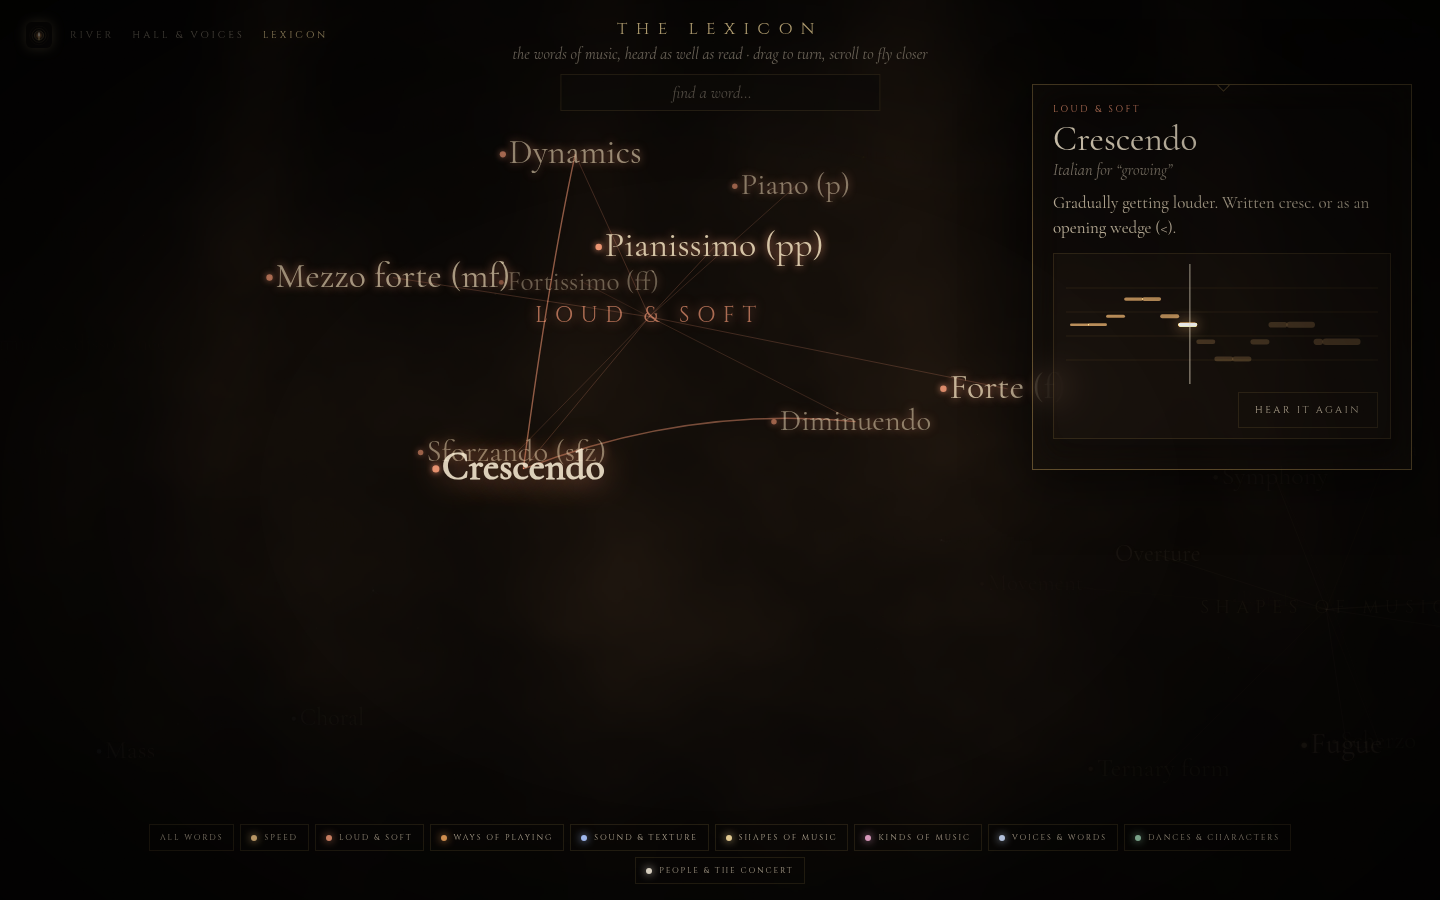
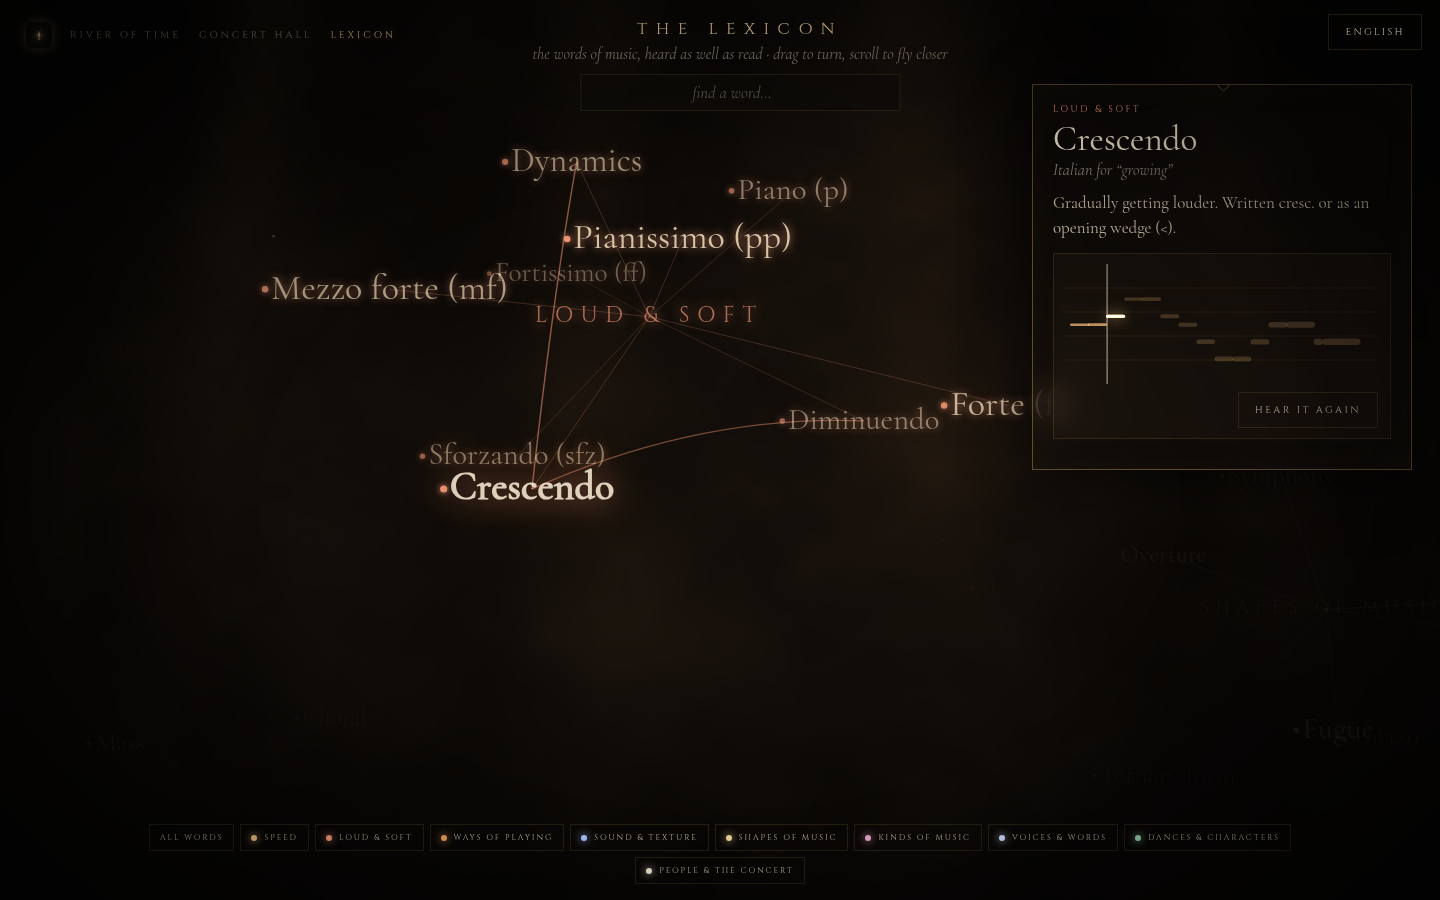
docs: Concert Hall and River of Time names; refreshed screenshots

diff --git a/docs/rebuild/README.md b/docs/rebuild/README.md
@@ -11,7 +11,7 @@ Every screenshot is 1440×900, taken in headless Chrome. The old site was built 
 | | Old site (`main`) | New site (v2) |
 |---|---|---|
 | Arrival | A dense timeline of bars, straight away | An eye-level walk through infinite darkness: light columns, incense, a floor you drift across, and votive voices that follow your clicks |
-| Navigation | Header tabs: Timeline · Terms · Orchestra · Credits | Three glowing halos: River of Time · Hall & Voices · Lexicon. The Votive icon takes you home |
+| Navigation | Header tabs: Timeline · Terms · Orchestra · Credits | Three glowing halos: River of Time · Concert Hall · Lexicon. The Votive icon takes you home |
 | Composers | 51 bars on a timeline | 51 living threads whose thickness and brightness show how much they wrote and how much they were heard. Each has a fact-checked life arc with world events and contemporaries |
 | Orchestra | A 2D seating map with family lists | A lit 3D stage from the conductor's podium, in 5 eras and 6 pieces. Players walk off and on, tune, then play "Raise the baton" |
 | Sound | Links out to Spotify | Recorded orchestral samples (VSCO 2 CE, Sonatina) in the Hall, plus Spotify playing inside the page for 222 verified recordings |
@@ -35,15 +35,15 @@ The timeline's information now lives in the **River of Time**. Each composer is 
 
 ![New site: River of Time with Chopin's life open](screenshots/new-river-chopin.png)
 
-## 2. Orchestra → Hall & Voices
+## 2. Orchestra → Concert Hall
 
 **Before:** a flat seating diagram beside a panel of text and family lists.
 
 ![Old site: Orchestra Explorer](screenshots/old-orchestra.png)
 
-**After:** you stand on the conductor's podium with the baton in your hand. Each section sits on its own lit floor under its own lamp, with incense drifting through the light. The choir stands at the back in every era where it belongs. Changing the era or piece sends players walking off and new ones walking on. They tune and noodle, then come together on "Raise the baton". Below: Mahler's *Symphony of a Thousand*, with all 158 performers on stage.
+**After:** you stand on the conductor's podium. Each section sits on its own lit floor under its own lamp, with incense drifting through the light. The choir stands at the back in every era where it belongs. Changing the era or piece sends players walking off and new ones walking on. They tune and noodle, then come together on "Raise the baton". Below: Mahler's *Symphony of a Thousand*, with all 158 performers on stage.
 
-![New site: Hall & Voices, Mahler 8](screenshots/new-hall-m8.png)
+![New site: Concert Hall, Mahler 8](screenshots/new-hall-m8.png)
 
 Click a section or its name to meet the instrument. Its card shows the range, its role, a showcase piece playing in the page, the player widely called the greatest, and great players.
 
@@ -85,7 +85,7 @@ An automated check confirms that every locale covers 100% of every namespace and
 | Afrikaans: Home | Français: a life in the River |
 |---|---|
 | ![Home in Afrikaans](screenshots/lang-home-af-ZA.png) | ![River in French](screenshots/lang-river-fr-FR.png) |
-| **Polski: Hall & Voices** | **Español: the Lexicon** |
+| **Polski: Concert Hall** | **Español: the Lexicon** |
 | ![Hall in Polish](screenshots/lang-hall-pl-PL.png) | ![Lexicon in Spanish](screenshots/lang-lexicon-es-ES.png) |
 
 The translations still need a review by native speakers before launch.
@@ -118,6 +118,7 @@ The rebuild was a conversation. Each round of feedback became a commit, and you 
 - "Card is translucent" → opaque cards over a dimmed River.
 - "Voices missing" → labels that never overlap, and a choir wherever history puts one.
 - "Through the eras isn't working" → interactive notes for every era.
+- "River => River of Time, Hall & Voices => Concert Hall, remove the baton" → clearer names, and a stage with nothing in front of the orchestra.
 
 ## Next steps
 

diff --git a/CHANGELOG.md b/CHANGELOG.md
@@ -8,7 +8,7 @@ The format is based on [Keep a Changelog](https://keepachangelog.com/en/1.0.0/).
 
 ### Added
 
-- **Rebuild v2 (`public/v2/`)**: a new static experience served at `/v2/` beside the current app. It has an atmospheric Home, the River of Time (composer threads, fact-checked life arcs and search), Hall & Voices (a 3D conductor's-view orchestra across 5 eras and 6 pieces, recorded samples, instrument cards with notes for every era) and the Lexicon (92 terms in a 3D constellation with Hear-it demos). Spotify plays in the page, every view has a shareable URL, and the site is available in 5 languages. Spec: `docs/specs/features/rebuild-v2.md`. Old-vs-new comparison: `docs/rebuild/README.md`.
+- **Rebuild v2 (`public/v2/`)**: a new static experience served at `/v2/` beside the current app. It has an atmospheric Home, the River of Time (composer threads, fact-checked life arcs and search), Concert Hall (a 3D conductor's-view orchestra across 5 eras and 6 pieces, recorded samples, instrument cards with notes for every era) and the Lexicon (92 terms in a 3D constellation with Hear-it demos). Spotify plays in the page, every view has a shareable URL, and the site is available in 5 languages. Spec: `docs/specs/features/rebuild-v2.md`. Old-vs-new comparison: `docs/rebuild/README.md`.
 - **Polish (pl-PL) locale** — added `pl-PL` to `supportedLngs`, the header and walkthrough language switchers, and the test i18n setup. Added a full Polish `translation.json`, Polish era translations, and targeted Polish namespace overrides for composer/composition/event copy and Wikipedia article titles.
 - **Spanish (es-ES) locale** — full translations for all 7 namespaces: `translation` (UI chrome), `composers` (51 composers), `compositions` (196 compositions), `events` (47 historical events), `eras` (6 eras), `terms` (empty, no terms data yet), and `instruments` (empty, no instruments data yet). App title translates as "Réquiem de Todo". `es-ES` added to `supportedLngs` in `src/i18n/index.ts`. Spec updated at `docs/specs/features/i18n.md`.
 - **Credits page** — a new "Credits" tab in the main navigation listing all contributors who have made commits to the repository, with name and role labels. Fully localised in en-GB, fr-FR, and af-ZA. Spec at `docs/specs/components/CreditsPage.md`.

diff --git a/docs/specs/features/rebuild-v2.md b/docs/specs/features/rebuild-v2.md
@@ -6,7 +6,7 @@ This is the next-generation Requiem of Everything experience, built as a static,
 ## Pages
 - `index.html`: Home. An eye-level infinite dark floor with light columns and incense, plus three halo destinations. The sound toggle (`roe-sound` in localStorage) is shared by every page.
 - `river.html`: River of Time. Composer threads, world events and countries, life cards with arcs, and composer search. Deep link: `#focus=<composerId>`.
-- `hall.html`: Hall & Voices. A 3D stage from the conductor's view, 5 eras and 6 pieces, composer and instrument cards, and recorded samples. Deep links: `#era=`, `#piece=`, `#composer=`, `#instrument=`.
+- `hall.html`: Concert Hall. A 3D stage from the conductor's view, 5 eras and 6 pieces, composer and instrument cards, and recorded samples. Deep links: `#era=`, `#piece=`, `#composer=`, `#instrument=`.
 - `terms.html`: Lexicon. A 3D term constellation with Hear-it demos. Deep link: `#term=<id>`.
 
 ## Constraints
